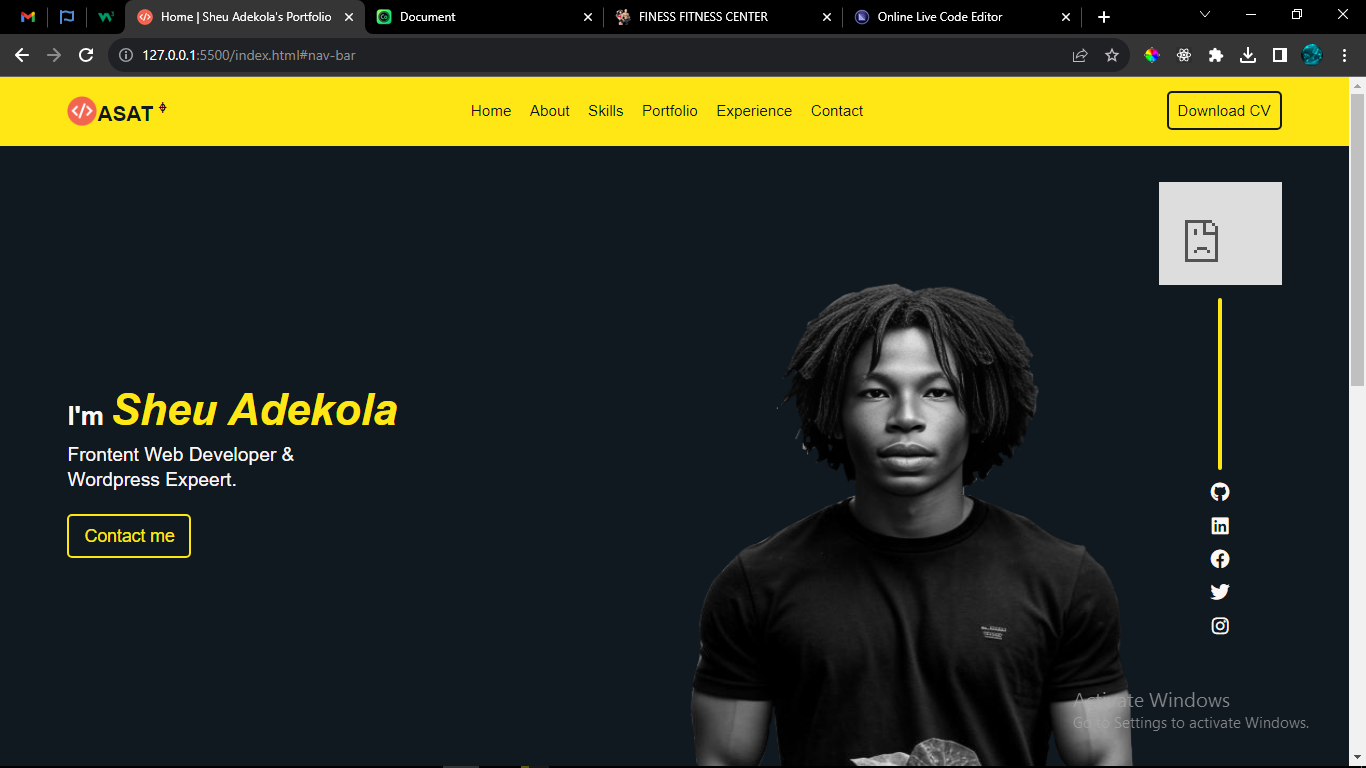
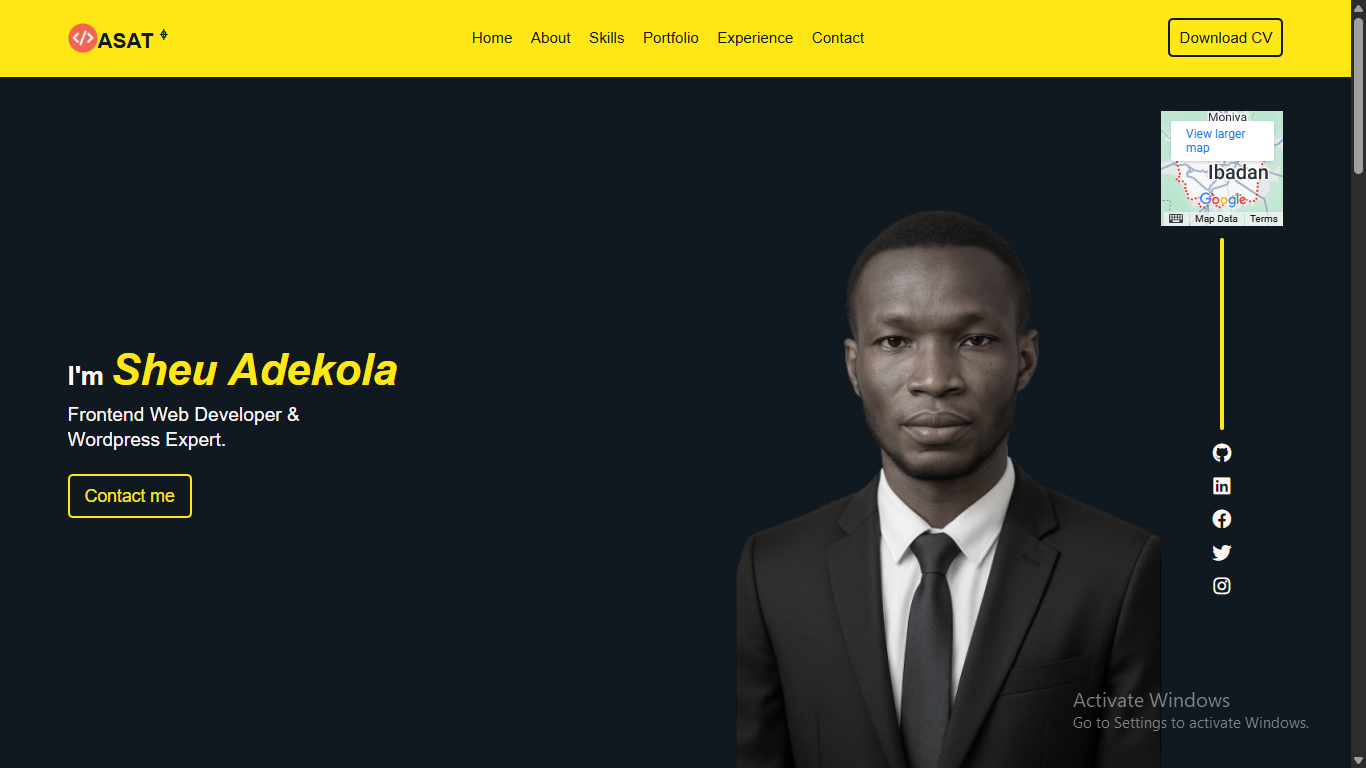
update 1.1
June 2025 update

diff --git a/index.html b/index.html
@@ -53,24 +53,24 @@
     <div class="container first-page-container">
       <div class="fp-col1">
         <h3> I'm <span>Sheu Adekola</span> </h3>
-        <p> Frontent Web Developer &amp; <br> Wordpress Expert. </p>
+        <p> Frontend Web Developer &amp; <br> Wordpress Expert. </p>
 
         <a href="#contact-form-name" id="fp-contact-btn">Contact me </a>
         <a href="files/cv.pdf" download="Sheu Adekola CV" id="fp-cv-btn"> Download CV </a>  
       
       </div>
       <div class="fp-col2">
-        <img src="image/pics_ne.png" alt="Sheu Adekola Profile picture">
+        <img src="image/sheu_adekola.png" alt="Sheu Adekola Profile picture">
         <div class="fp-col2-side" >
           <iframe src="https://www.google.com/maps/embed?pb=!1m18!1m12!1m3!1d126614.51346258055!2d3.8226579119554778!3d7.387080141948368!2m3!1f0!2f0!3f0!3m2!1i1024!2i768!4f13.1!3m3!1m2!1s0x10398d77eeff086f%3A0x3b33e0f76e8e04a9!2sIbadan%2C%20Oyo!5e0!3m2!1sen!2sng!4v1735155744329!5m2!1sen!2sng" allowfullscreen="" loading="lazy" referrerpolicy="no-referrer-when-downgrade"></iframe>
           
           <hr>
           
-          <a href="https://github.com/Cheuli15"> <i class="fa-brands fa-github"></i> </a>
-          <a href="https://linkedin.com/in/adekola-sheu-6a023913b"> <i class="fa-brands fa-linkedin"></i> </a>
-          <a href="https://web.facebook.com/adekolatijani.ahmad"> <i class="fa-brands fa-facebook"></i> </a>
-          <a href="https://twitter.com/peftilog?t=6XHbzb-8YO5GJIqh_2k91A&s=09"> <i class="fa-brands fa-twitter"></i> </a>
-          <a href="https://www.instagram.com/invites/contact/?i=1ewshna1p8ya5&utm_content=rn60k8u"> <i class="fa-brands fa-instagram"></i> </a>
+          <a href="https://github.com/Cheuli15" target="_blank" rel="noopener noreferrer"> <i class="fa-brands fa-github"></i> </a>
+          <a href="https://linkedin.com/in/adekola-sheu-6a023913b" target="_blank" rel="noopener noreferrer"> <i class="fa-brands fa-linkedin"></i> </a>
+          <a href="https://web.facebook.com/adekolatijani.ahmad" target="_blank" rel="noopener noreferrer"> <i class="fa-brands fa-facebook"></i> </a>
+          <a href="https://twitter.com/peftilog?t=6XHbzb-8YO5GJIqh_2k91A&s=09" target="_blank" rel="noopener noreferrer"> <i class="fa-brands fa-twitter"></i> </a>
+          <a href="https://www.instagram.com/invites/contact/?i=1ewshna1p8ya5&utm_content=rn60k8u" target="_blank" rel="noopener noreferrer"> <i class="fa-brands fa-instagram"></i> </a>
 
         </div>
             
@@ -283,10 +283,10 @@
           <i> Phone No: 08084083255 </i> <br>
           <i> Whatsapp: 08172942666 </i> <br>
           <div>
-            <a href="https://github.com/Cheuli15"> <i class="fa-brands fa-github"></i> </a>
-          <a href="https://linkedin.com/in/adekola-sheu-6a023913b"> <i class="fa-brands fa-linkedin"></i> </a>
-          <a href="https://web.facebook.com/adekolatijani.ahmad"> <i class="fa-brands fa-facebook"></i> </a>
-          <a href="https://twitter.com/peftilog?t=6XHbzb-8YO5GJIqh_2k91A&s=09"> <i class="fa-brands fa-twitter"></i> </a>
+            <a href="https://github.com/Cheuli15" target="_blank" rel="noopener noreferrer"> <i class="fa-brands fa-github"></i> </a>
+          <a href="https://linkedin.com/in/adekola-sheu-6a023913b" target="_blank" rel="noopener noreferrer"> <i class="fa-brands fa-linkedin"></i> </a>
+          <a href="https://web.facebook.com/adekolatijani.ahmad" target="_blank" rel="noopener noreferrer"> <i class="fa-brands fa-facebook"></i> </a>
+          <a href="https://twitter.com/peftilog?t=6XHbzb-8YO5GJIqh_2k91A&s=09" target="_blank" rel="noopener noreferrer"> <i class="fa-brands fa-twitter"></i> </a>
           </div>
         </div>
         <!-- contact form in contact me section  -->

diff --git a/css/style.css b/css/style.css
@@ -128,7 +128,8 @@
 }
 .fp-col2 img{
   margin-top: 4%;
-  width: 36vw;
+  /* width: 36vw; */
+  width: auto;
   height: 83vh;
   filter: grayscale(0.75);
 }
